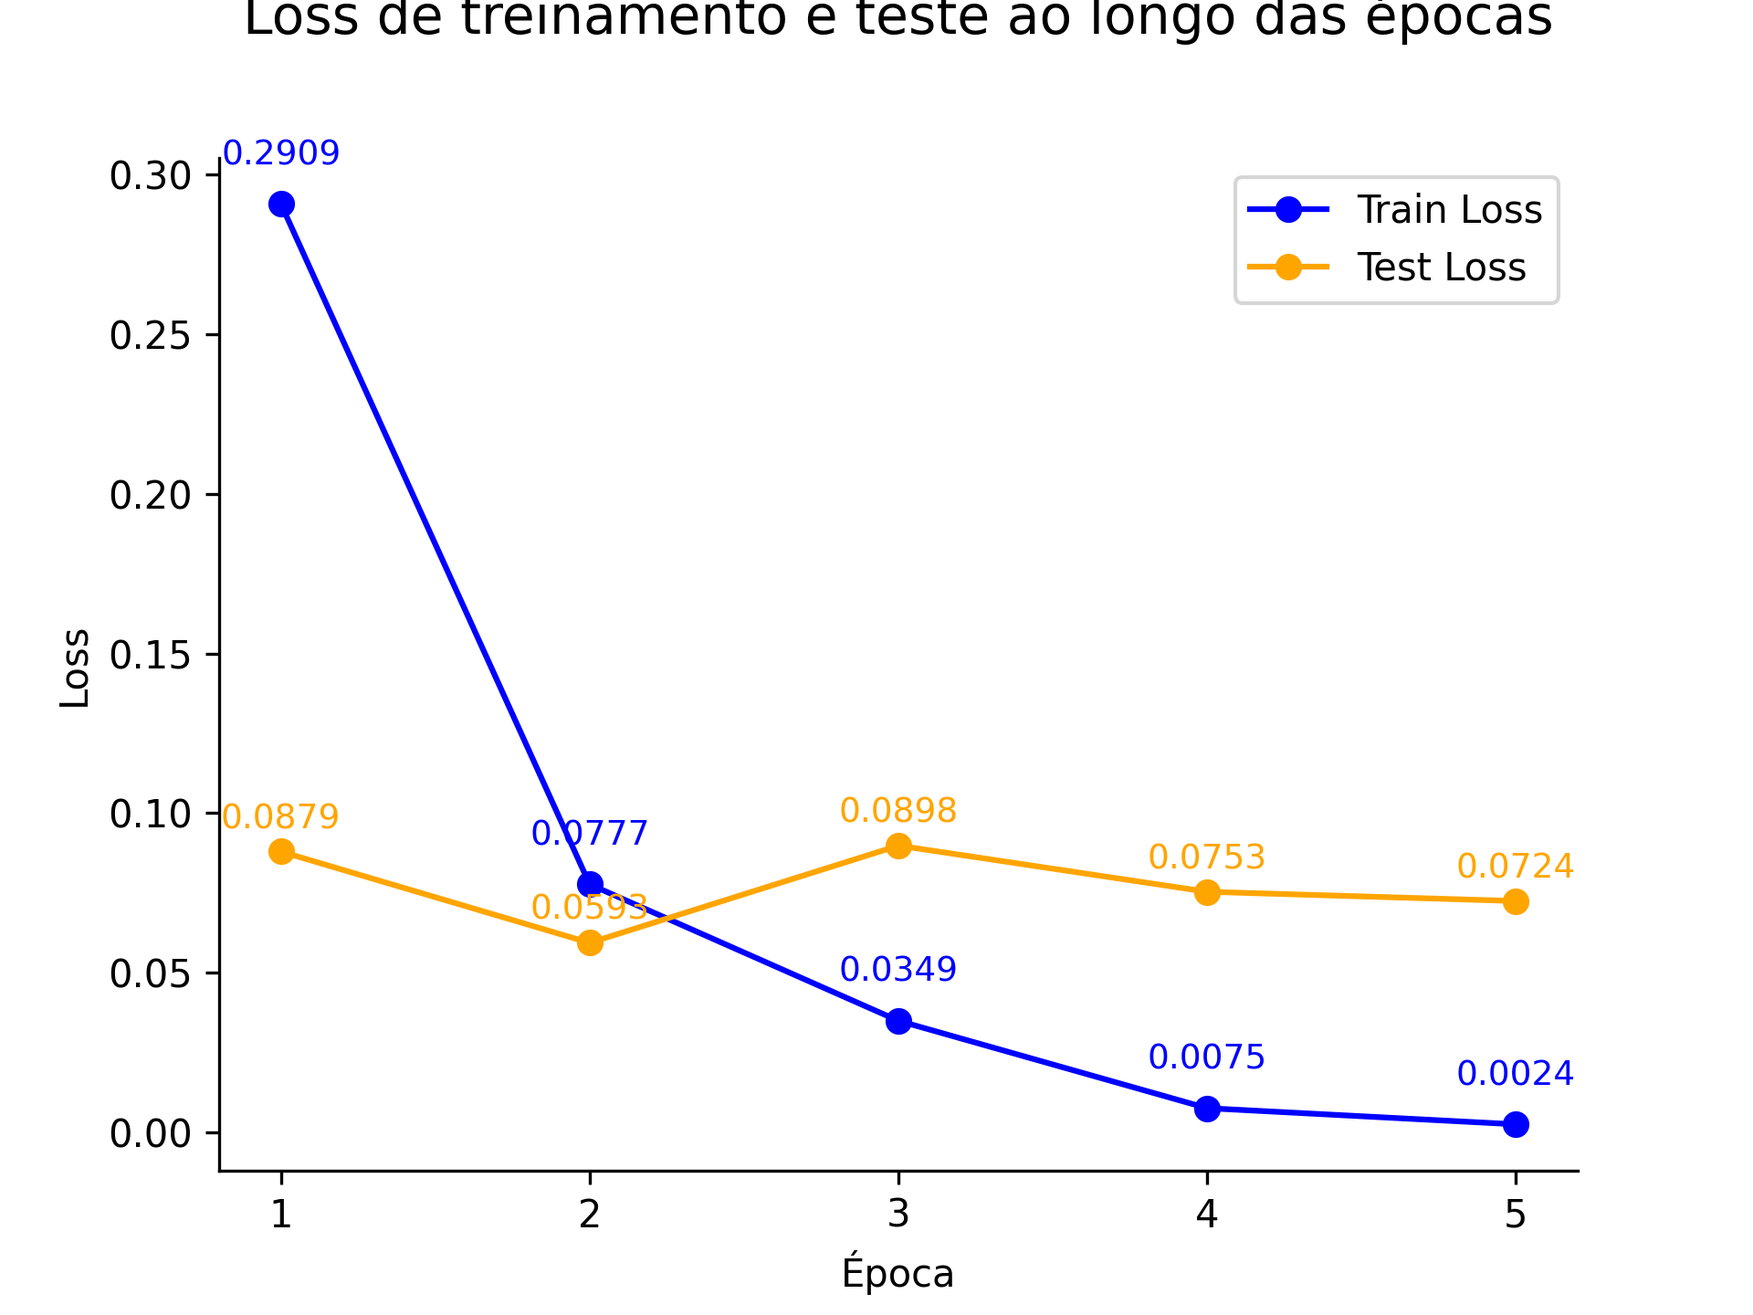
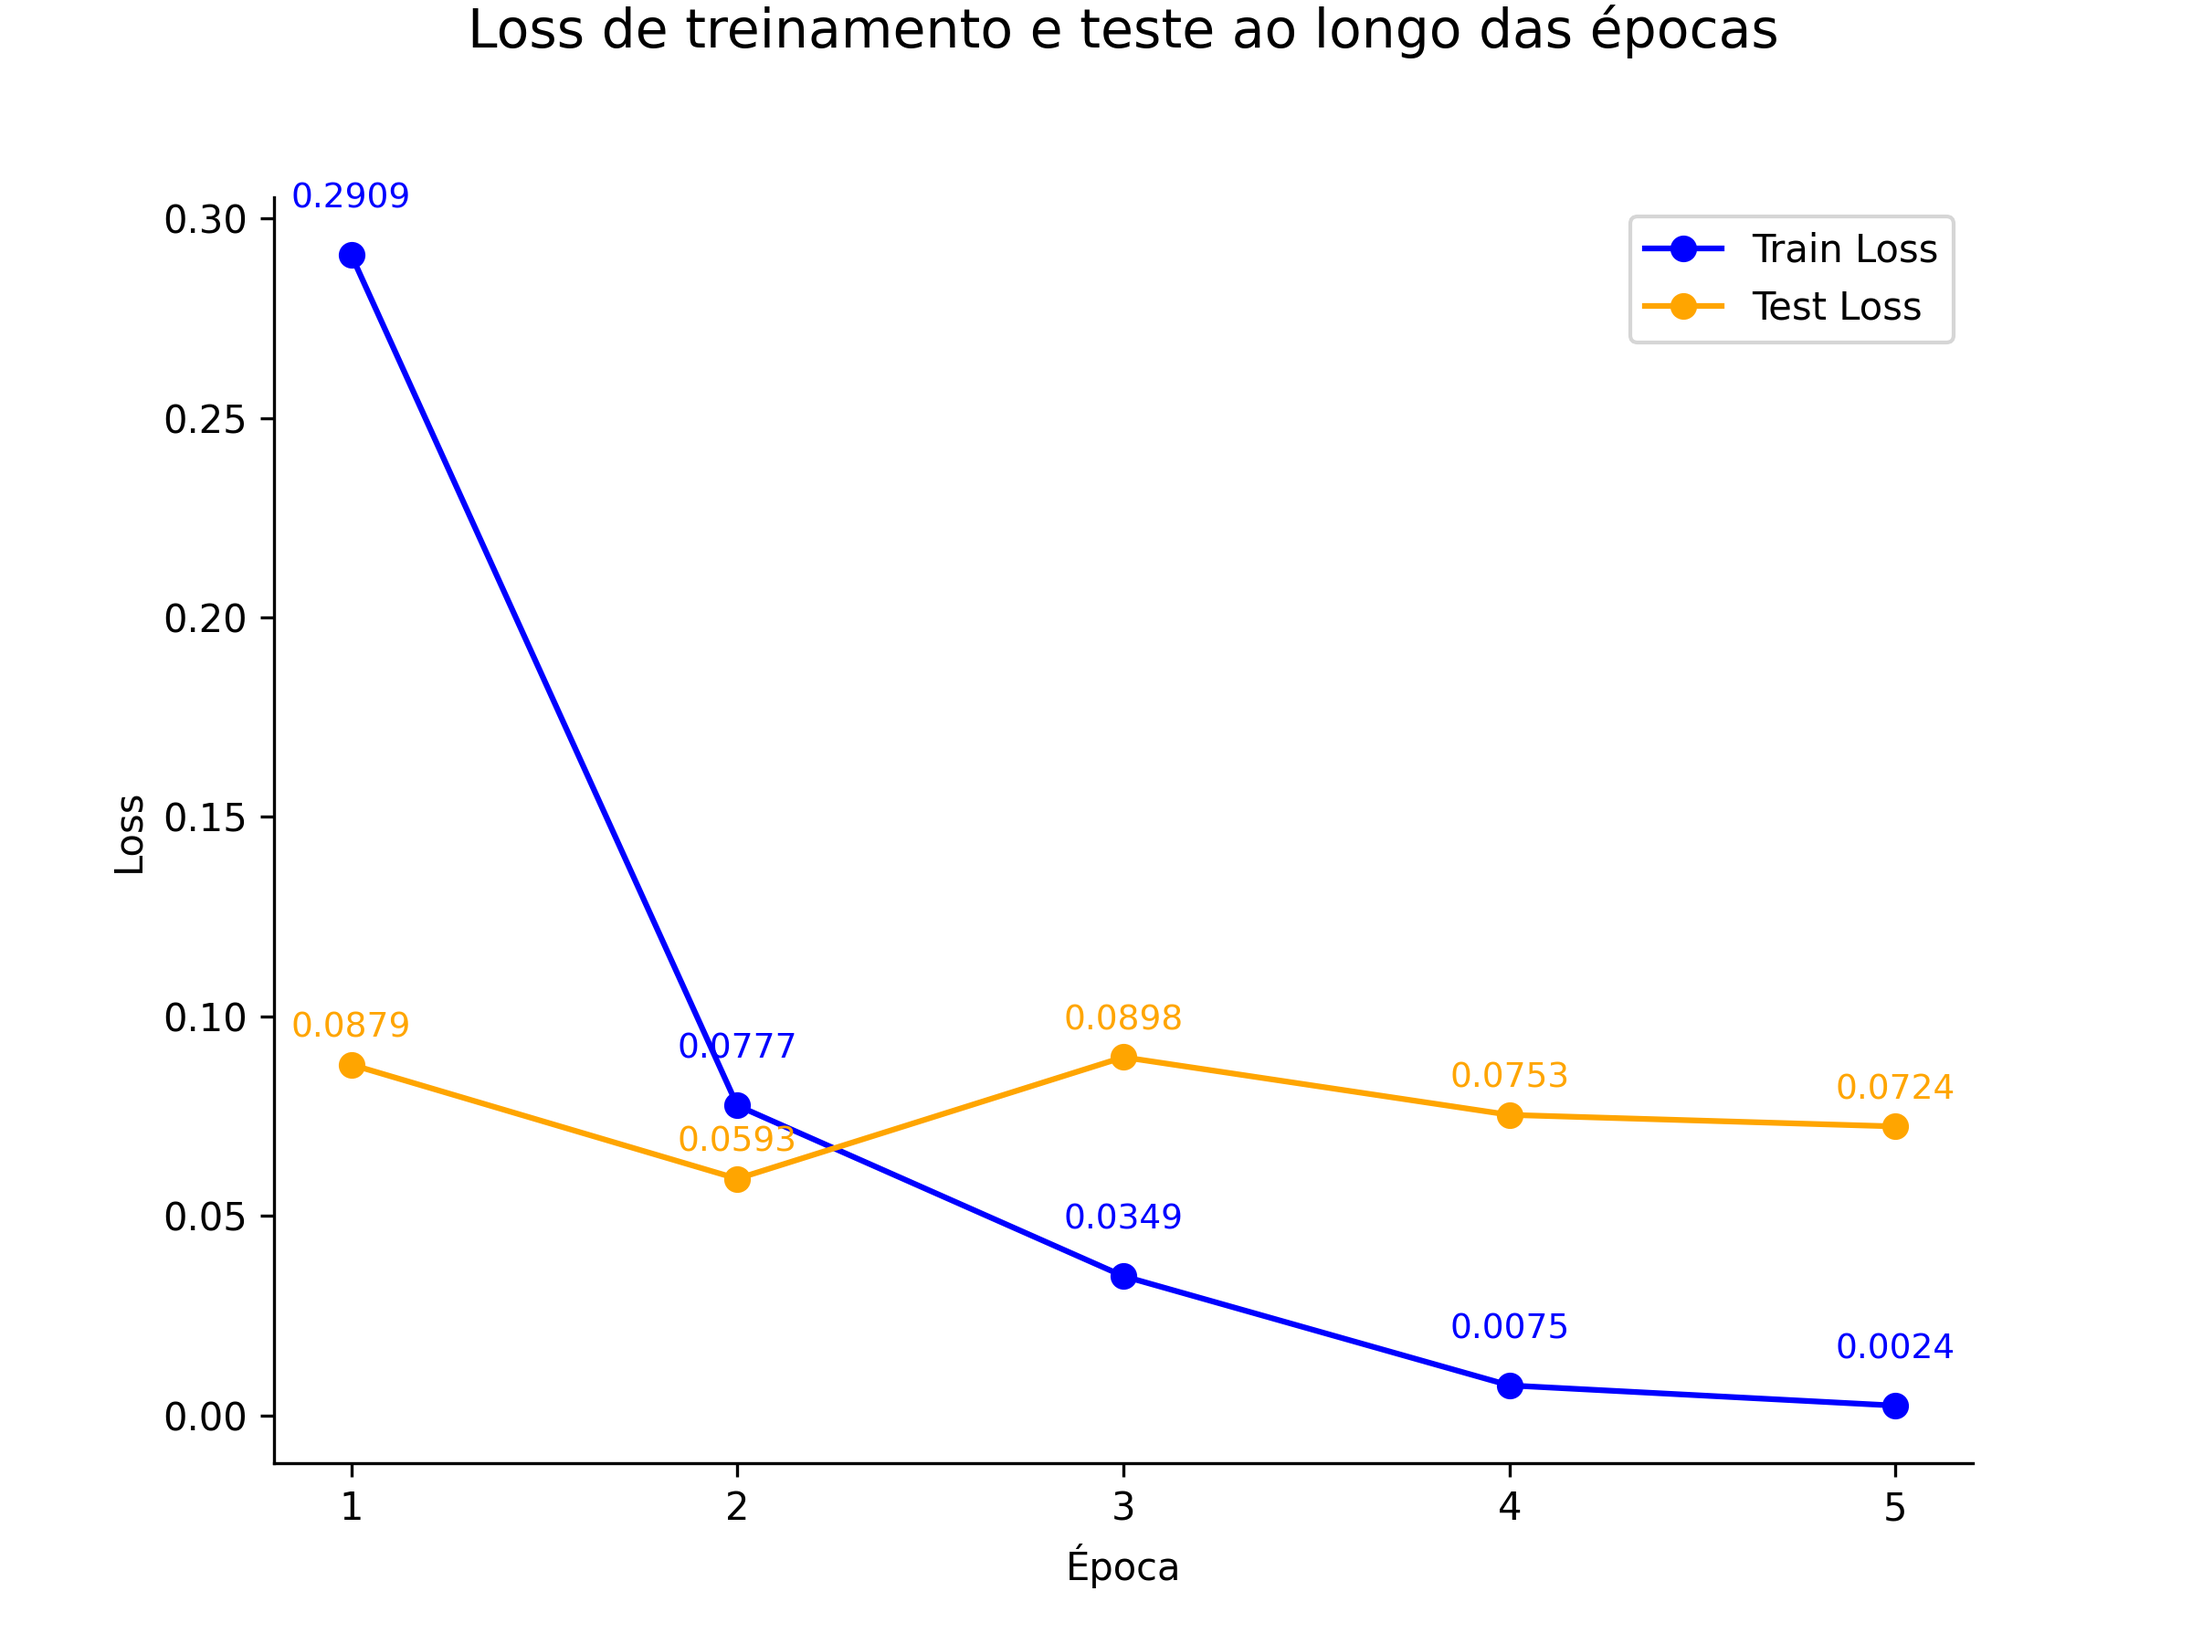
fix: typo and image size

diff --git a/🏠Home.py b/🏠Home.py
@@ -56,12 +56,11 @@ def introduction():
     | Ambiente de Desenvolvimento       | ![Visual Studio Code](https://img.shields.io/badge/Visual%20Studio%20Code-0078d7.svg?style=for-the-badge&logo=visual-studio-code&logoColor=white) ![Kaggle](https://img.shields.io/badge/Kaggle-035a7d?style=for-the-badge&logo=kaggle&logoColor=white) Google Colab |
 
     <br/>
-    As seções a seguir apresentam as predições realizadas pelo modelo treinado
-    para todas as avaliações. Nelas, é possível comparar os dados reais com
-    as previsões geradas pelo Modelo, permitindo uma avaliação clara da
-    eficácia do modelo na tarefa proposta.
 
-    <br/>
+    As seções a seguir apresentam as **predições realizadas pelo Modelo
+    treinado para todas as 2532 avaliações**. Nelas, é possível comparar os
+    dados reais com as previsões geradas pelo Modelo, permitindo uma avaliação
+    clara de sua eficácia para tarefa proposta.
     """,
         unsafe_allow_html=True,
     )
@@ -72,10 +71,10 @@ def positive_reviews_ranking():
 
     st.markdown(
         """
-    Este gráfico ilustra as cinco empresas que apresentam um número de
-    avaliações positivas superior ao de avaliações negativas. Para garantir
-    a relevância dos dados, foram consideradas apenas as empresas que
-    possuem pelo menos 21 avaliações, um critério que representa a metade da
+    Este gráfico ilustra as cinco empresas que apresentam **número de
+    avaliações positivas superior ao de avaliações negativas**. Para garantir
+    a relevância dos dados, **foram consideradas apenas as empresas que
+    possuem pelo menos 21 avaliações**, um critério que representa a metade da
     mediana de avaliações de todas as empresas analisadas.
 """
     )
@@ -162,8 +161,8 @@ def negative_reviews_ranking():
 
     st.markdown(
         """
-    Este gráfico mostra as empresas que apresentam um número de
-    avaliações negativas superior ao de avaliações positivas, seguindo
+    Este gráfico mostra as empresas que apresentam **número de
+    avaliações negativas superior ao de avaliações positivas**, seguindo
     os mesmos critérios do gráfico anterior.
 """
     )
@@ -249,8 +248,6 @@ def negative_reviews_ranking():
         O ranking completo de avaliações por empresa pode ser visualizado no
         menu <a target="_self" href="./Ranking_geral_de_avaliações">🥇Ranking
         geral de avaliações</a>.
-
-        <br/>
     """,
         unsafe_allow_html=True,
     )
@@ -261,7 +258,9 @@ def company_analisys():
 
     st.markdown(
         """
-    A visualização da distribuição de avaliações e emoções em todas as empresas permite uma comparação rápida e uma visão abrangente do panorama geral.
+    A visualização da distribuição de avaliações e emoções em todas as
+    empresas permite uma comparação rápida e uma visão abrangente do panorama
+    geral.
 """
     )
 
@@ -319,8 +318,6 @@ def sentiment_reviews_along_time():
      frequentes do que as negativas e neutras. O ano de 2022 destacou-se como
      o período com o maior número total de avaliações, apresentando também a
      maior disparidade entre as avaliações positivas e negativas.
-
-    <br/>
 """,
         unsafe_allow_html=True,
     )
@@ -442,13 +439,12 @@ def rating_star_analysis():
 
     st.markdown(
         """
-        Este gráfico ilustra que:
-        - As avaliações de 1 a 3 estrelas apresentam um sentimento
-        predominantemente negativo.
-        - Por outro lado, as avaliações de 4 estrelas mostram uma distribuição
-        equilibrada entre sentimentos positivos e negativos.
-        - Já as avaliações de 5 estrelas são majoritariamente positivas,
-        destacando-se também um número significativo de avaliações neutras.
+        - As **avaliações de 1 a 3 estrelas** apresentam **sentimento
+        predominantemente negativo**.
+        - Por outro lado, as **avaliações de 4 estrelas** mostram uma
+        **distribuição equilibrada entre sentimentos positivos e negativos**.
+        - Já as **avaliações de 5 estrelas** são **majoritariamente positivas**,
+        destacando-se também um **número significativo de avaliações neutras**.
 
         Essa predominância de avaliações neutras em avaliações de 5 estrelas
         pode ser atribuída à exigência no Glassdoor de preencher as seções
@@ -570,31 +566,27 @@ def rating_star_analysis():
         empresa pode ser visualizada no menu
         <a target="_self" href="./Avaliações_por_quantidade_de_estrelas">
         📊Avaliações por quantidade de estrelas</a>.
-
-        <br/>
     """,
         unsafe_allow_html=True,
     )
 
 
 def wordcloud_analysis():
-    st.subheader("Word Cloud de todas as avaliações")
+    st.subheader("Nuvem de Palavras")
 
     st.markdown(
         """
-    A Word Cloud (Nuvem de Palavras) é uma representação visual que ilustra as
-    palavras mais frequentemente utilizadas no conjunto de avaliações. Neste
+    A Nuvem de Palavras ([Word Cloud](https://techner.com.br/glossario/o-que-e-word-cloud/ "Word Cloud")) **é uma representação visual que ilustra as
+    palavras mais frequentemente utilizadas no conjunto de avaliações**. Neste
     gráfico, as palavras aparecem em tamanhos variados, refletindo sua
     frequência de uso: quanto maior a palavra, mais vezes ela foi mencionada
-    nas avaliações.
+    nas avaliações. É importante ressaltar que as stopwords, que são palavras
+    comuns e geralmente sem significado relevante para a análise (como "e", "a", "o",
+    "de") foram excluídas desta visualização.
 
-    É importante ressaltar que as stopwords, que são palavras comuns e
-    geralmente sem significado relevante para a análise (como "e", "a", "o",
-    "de"), foram excluídas desta visualização.
-
-    Essa abordagem permite uma análise mais clara e focada, facilitando a
-    identificação rápida dos tópicos mais relevantes e das percepções
-    predominantes dos usuários.
+    A Nuvem de Palavras mostrada a seguir permite a identificação rápida dos
+    tópicos mais relevantes demonstrados nas avaliações, onde `empresa` e
+    `trabalho` são visivelmente as palavras mais comuns.
 """
     )
 
@@ -642,21 +634,17 @@ def most_common_words_analysis():
 
     st.markdown(
         """
-        Embora a Word Cloud ofereça uma visão geral interessante das
+        Embora a Nuvem de Palavras ofereça uma visão geral interessante das
         palavras mais utilizadas nas avaliações, ela pode não ser a melhor
         opção para destacar de forma clara e precisa a palavra mais frequente.
         Para complementar essa análise, é mostrado o gráfico de barras que
         apresenta as 10 palavras mais frequentemente utilizadas nas avaliações
         analisadas.
 
-        Este gráfico segue os mesmos critérios da Word Cloud, garantindo que
+        Este gráfico segue os mesmos critérios da Nuvem de Palavras, garantindo que
         as palavras selecionadas sejam relevantes e significativas. Com a
         disposição em barras, é possível visualizar facilmente a frequência de
         cada palavra, permitindo uma comparação direta entre elas.
-
-        Essa abordagem torna a interpretação dos dados mais intuitiva e
-        acessível, facilitando a identificação dos temas mais recorrentes nas
-        avaliações.
 """
     )
 
@@ -724,8 +712,6 @@ def most_common_words_analysis():
         """
         As Top 10 palavras mais frequentes nas avaliações por empresa e por
         sentimento podem ser visualizadas no menu <a target="_self" href="./Top_10_palavras_mais_usadas">📊Top 10 palavras mais frequentes</a>.
-
-        <br/>
     """,
         unsafe_allow_html=True,
     )
@@ -744,16 +730,16 @@ def ngram_analysis():
     pode aparecer frequentemente, mas sem o contexto, como em `oportunidade de
     crescimento`, seu significado pode ser ambíguo.
 
-    Os N-Gramas são sequências contíguas de "n" itens (palavras ou
-    caracteres) e são essenciais para uma análise mais profunda, pois permitem
-    identificar padrões e temas recorrentes nas avaliações.
+    Os [N-Gramas](https://pt.wikipedia.org/wiki/N-grama) são sequências
+    contíguas de "n" itens (palavras ou caracteres) e são essenciais para uma
+    análise mais profunda, pois permitem identificar padrões e temas
+    recorrentes nas avaliações. Ao considerar as combinações de palavras, é
+    possível entender melhor as percepções dos funcionários e os aspectos mais
+    relevantes de suas experiências.
 
-    Ao considerar as combinações de palavras, é possível entender melhor as
-    percepções dos funcionários e os aspectos mais relevantes de suas
-    experiências. Essa análise revelou que as combinações de palavras mais
-    frequentes, considerando todas as avaliações, foram: `ambiente de
-    trabalho`, `plano de carreira`, `plano de saúde` e `oportunidade de
-    crescimento`.
+    Essa análise mostra que as combinações de palavras mais
+    frequentes foram: `ambiente de trabalho`, `plano de carreira`,
+    `plano de saúde` e `oportunidade de crescimento`.
 """
     )
 
@@ -817,8 +803,6 @@ def ngram_analysis():
         """
         Os Top 10 NGrams mais frequentes nas avaliações de cada empresa pode
         ser visualizado no menu <a target="_self" href="./NGrams">🔠NGrams</a>.
-
-        <br/>
     """,
         unsafe_allow_html=True,
     )
@@ -829,14 +813,13 @@ def conclusion():
 
     st.markdown(
         """
-    **A análise de sentimentos das avaliações no Glassdoor de 22 empresas de
-    Tecnologia em Cuiabá** revelou que o modelo de IA, baseado na técnica de
-    Transfer Learning com BERTimbau, **demonstrou uma alta acurácia de 95% na
-    classificação das avaliações**, evidenciando a eficácia metodologia aplicada.
-
-    Os resultados indicam que **15 das 22 empresas analisadas possuem mais
-    avaliações positivas do que negativas**, refletindo um ambiente de trabalho
-    predominantemente favorável.
+    A análise de sentimentos das avaliações no Glassdoor de 22 empresas de
+    Tecnologia em Cuiabá revelou que o Modelo desenvolvido demonstrou alta
+    precisão na classificação das categorias de sentimentos presentes nas
+    avaliações. Nos dados de teste, **o Modelo obteve uma acurácia alta
+    acurácia de 0,99 para a classe Neutro, 0,97 para a classe Positivo e 0,98
+    para a  classe Negativo**. Esses resultados evidenciam a eficácia da
+    metodologia aplicada.
 
     As **avaliações positivas** frequentemente mencionam temas como **ambiente
     de trabalho**, **plano de saúde** e **oportunidade de crescimento**,

diff --git a/pages/7_🧠_Treinamento do Modelo.py b/pages/7_🧠_Treinamento do Modelo.py
@@ -198,7 +198,7 @@ def model_development():
     a evolução de perda nos dados de treino, é posssível observar que
     o Modelo praticamente decorou os dados de treino.
 
-    ![Loss de treinamento e teste ao longo das épocas](https://github.com/stevillis/glassdoor-reviews-report/blob/master/img/train_and_test_loss.png?raw=true "Loss de treinamento e teste ao longo das épocas")
+    <img src="https://github.com/stevillis/glassdoor-reviews-report/blob/master/img/train_and_test_loss.png?raw=true" alt="Loss de treinamento e teste ao longo das épocas" width="600"/>
 
     ##### Métricas do Modelo
 
@@ -215,9 +215,10 @@ def model_development():
     <br/>
 
     A [Matriz de Confusão](https://pt.wikipedia.org/wiki/Matriz_de_confus%C3%A3o#:~:text=Em%20an%C3%A1lise%20preditiva%2C%20a%20matriz,verdadeiros%20positivos%20e%20verdadeiros%20negativos%20.)
-    nos dados de teste após as 5 épocas é mostrada a seguir:
+    das predições do Modelo nos dados de teste após as 5 épocas é mostrada a 
+    seguir:
 
-    ![Matriz de Confusão](https://github.com/stevillis/glassdoor-reviews-report/blob/master/img/confusion_matrix.png?raw=true "Matriz de Confusão")
+    <img src="https://github.com/stevillis/glassdoor-reviews-report/blob/master/img/confusion_matrix.png?raw=true" alt="Matriz de Confusão" width="600"/>
     """,
         unsafe_allow_html=True,
     )

diff --git a/pages/1_🥇_Ranking geral de avaliações.py b/pages/1_🥇_Ranking geral de avaliações.py
@@ -15,18 +15,15 @@ from utils import (
 
 def general_reviews_ranking():
     st.markdown(
-        """Este gráfico mostra a quantidade de avaliações e o sentimento associado para cada empresa, ordenadas pela totalidade de avaliações.
+        """
+    Este gráfico mostra a quantidade de avaliações e o sentimento
+    associado para cada empresa, ordenadas pela diferença entre avaliações
+    positivas e negativas. Essa visualização mostra que:
 
-**Metodologia**
-
-As avaliações neutras não foram consideradas na relação entre avaliações positivas e negativas.
-
-**Resultados**
-
-- 15 das 22 empresas analisadas têm mais avaliações positivas do que negativas.
-- 4 empresas apresentam um número maior de avaliações negativas.
-- 3 empresas têm um número igual de avaliações positivas e negativas.
-
+    - 18 das 22 empresas analisadas têm mais avaliações positivas do que
+    negativas.
+    - 2 empresas apresentam um número maior de avaliações negativas.
+    - 2 empresas têm um número igual de avaliações positivas e negativas.
 """
     )
 
